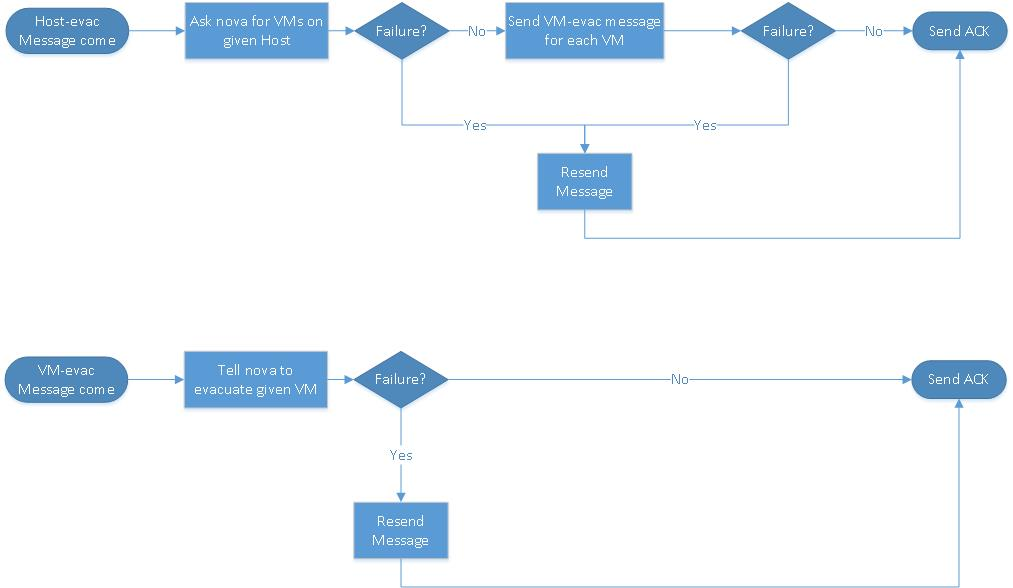
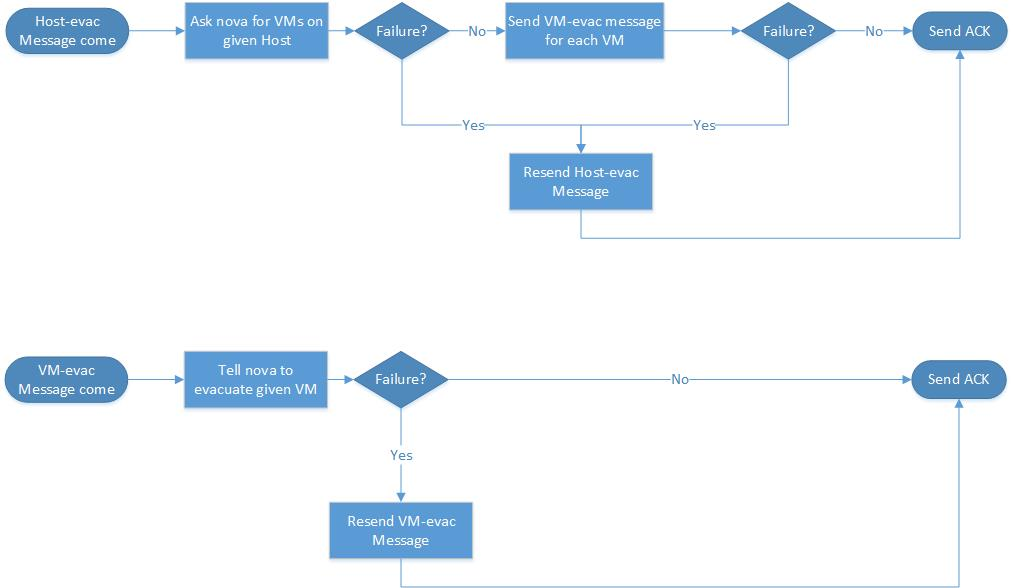
Fix language mistakes and clarify diagram

diff --git a/README.md b/README.md
@@ -1,18 +1,19 @@
 # Introduction
 
-Evacuationd is a deameon that is designed for maintaining evacuation process of instances in case of compute failure. It is intended to work with pacemaker, but any other cluster manager that is able to run simple script in case of compute failure would work.
+Evacuationd is a daemon that is designed for maintaining evacuation process of instances in case of compute failure. It is intended to work with pacemaker, but any other cluster manager that is able to run simple script in case of compute failure would work.
 
 # How it works
 
-Evacuationd is an active-active daemon that is able to send messages onto RabbitMQ queues and to receive them. For every received message, there is an action that daemon will perform. An acknowlage is send back to RabbitMQ only if action ends successfuly. Doing so, if particular daemon dies while doing an action, message will be resend and some other instance of evacuationd will do the job. The possible actions are:
+Evacuationd is an active-active daemon that is able to send messages onto RabbitMQ queues and to receive them. For every received message, there is an action that daemon will perform. An acknowledge is send back to RabbitMQ only if action ends successfully. Doing so, if particular daemon dies while doing an action, message will be resend and some other instance of evacuationd will do the job. The possible actions are:
+
 1. Host-evacuate - Ask nova for instances running on given host, and for every instance send message 'Vm-evacuate'
 2. Vm-evacuate - Evacuate given VM.
 
-If an exception occures while proccessing an action, message related with it is resend, so this action will be retry later.
+If an exception occurs while processing an action, message related with it is resend, so this action will be retry later.
 
 ![evacuationdworkflow](https://raw.githubusercontent.com/dawiddeja/evacuationd/master/workflow.jpg)
 
 # Future work
 
-1. Enable usage of acknowlages in OpenStack Oslo, so it can be used instead of pika;
+1. Enable usage of acknowledges in OpenStack Oslo, so it can be used instead of python-pika;
 2. Add 3rd Action - Look for VM - it will check if given VM ended up in active state on new hosts; if no, VM can be rebuild
